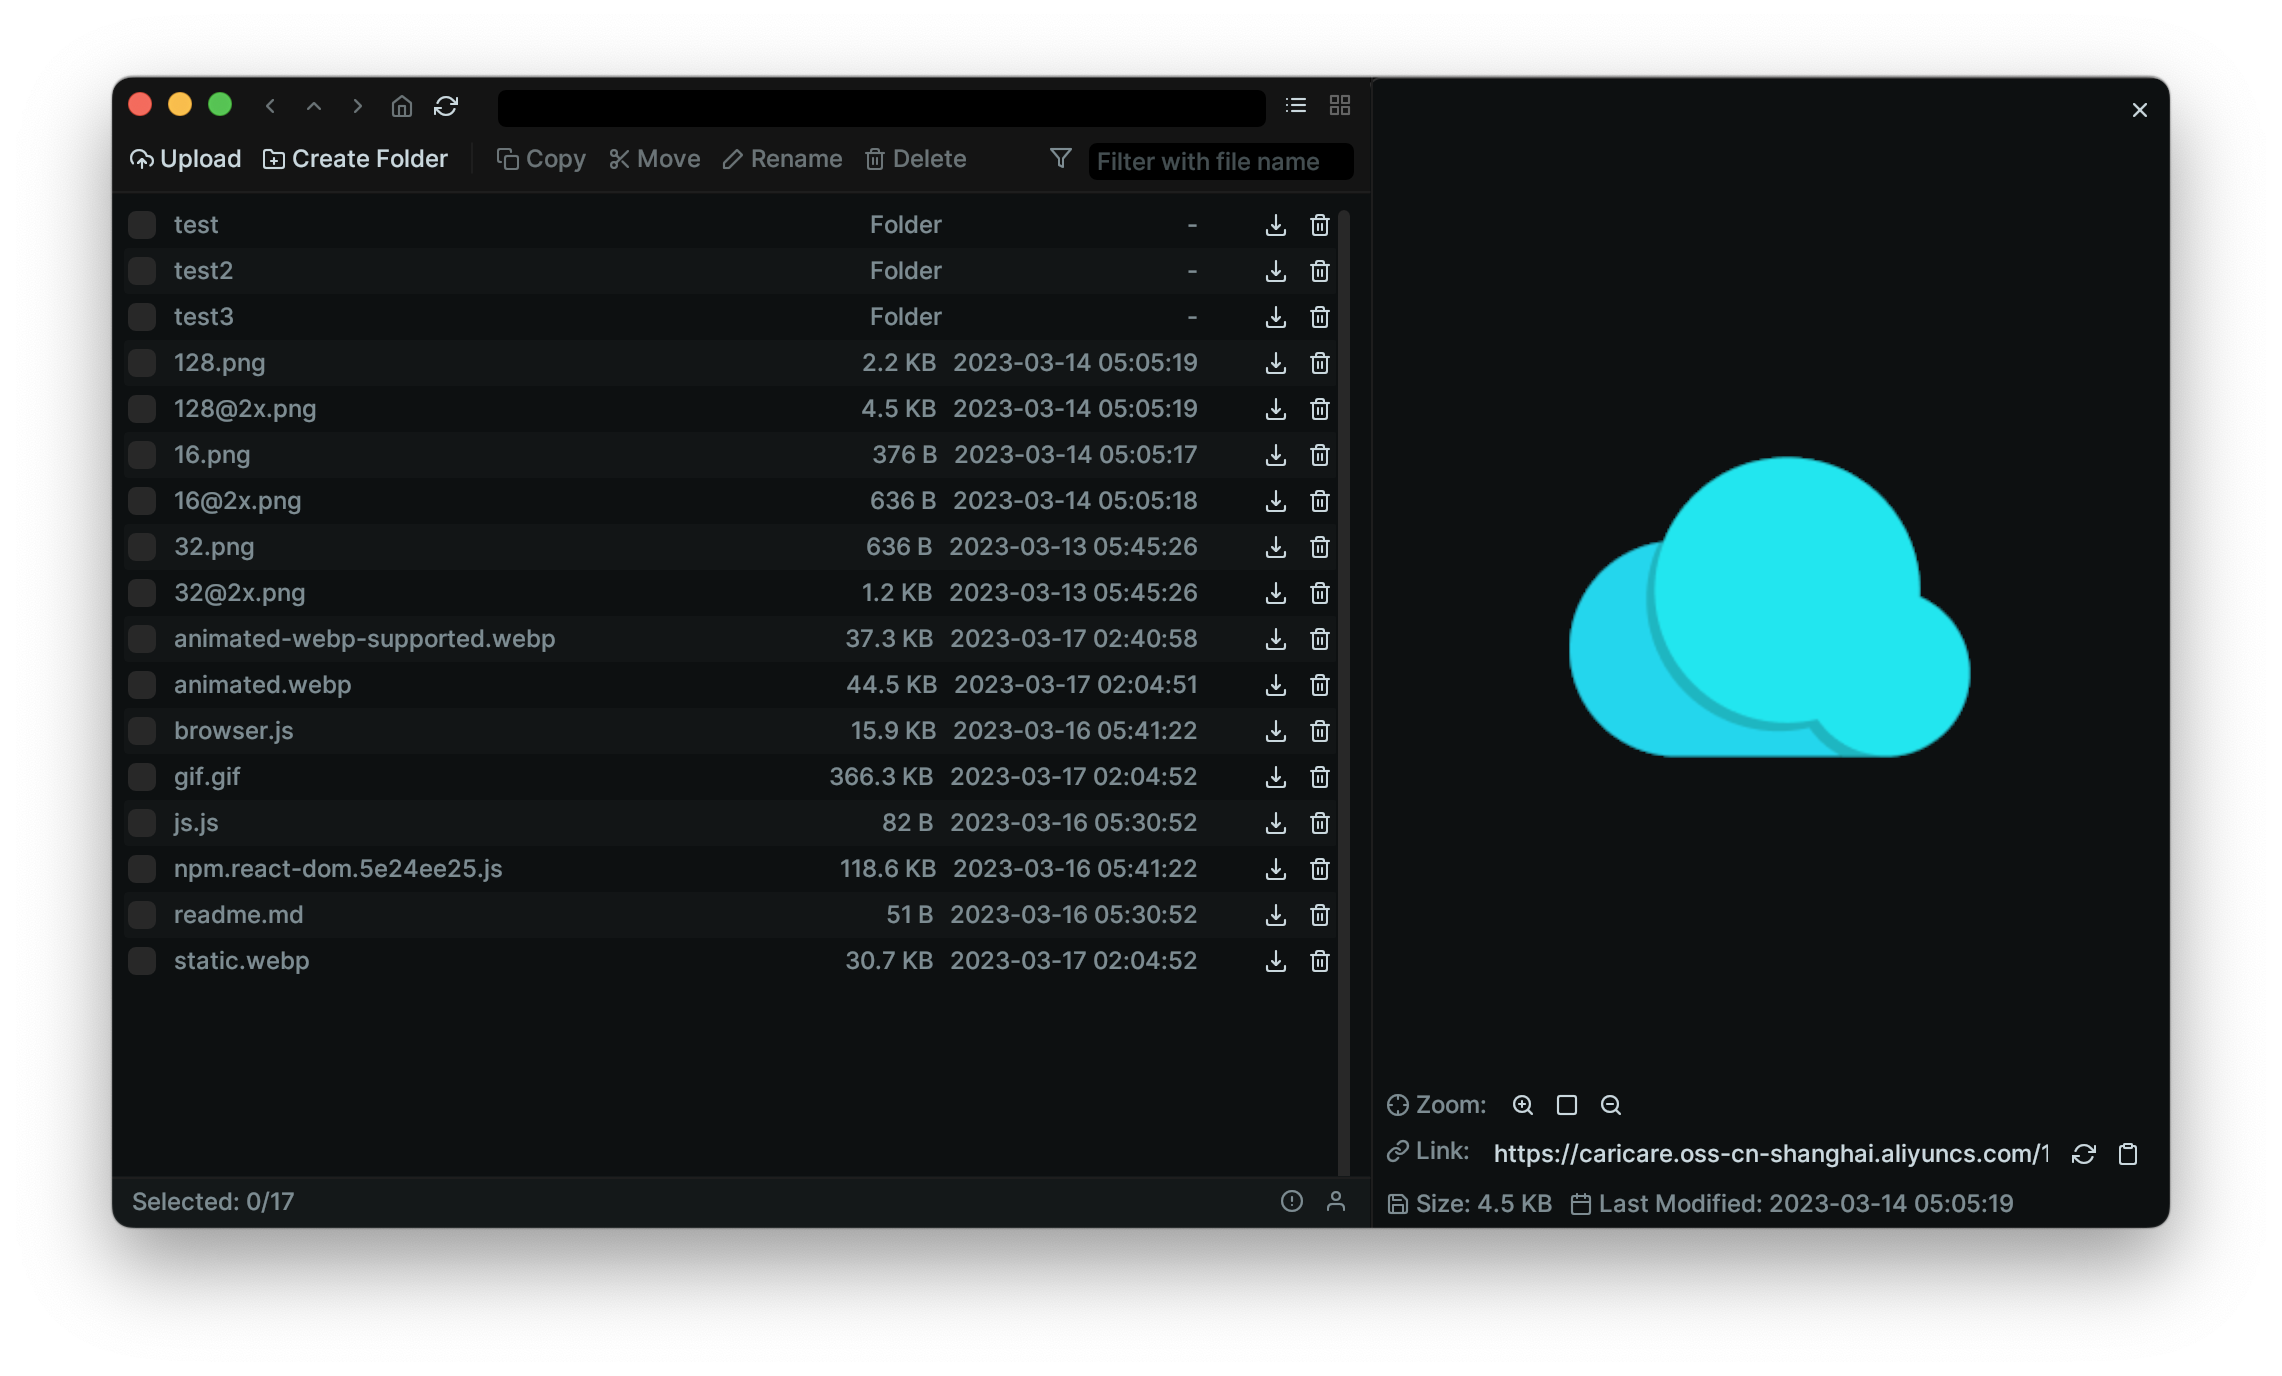
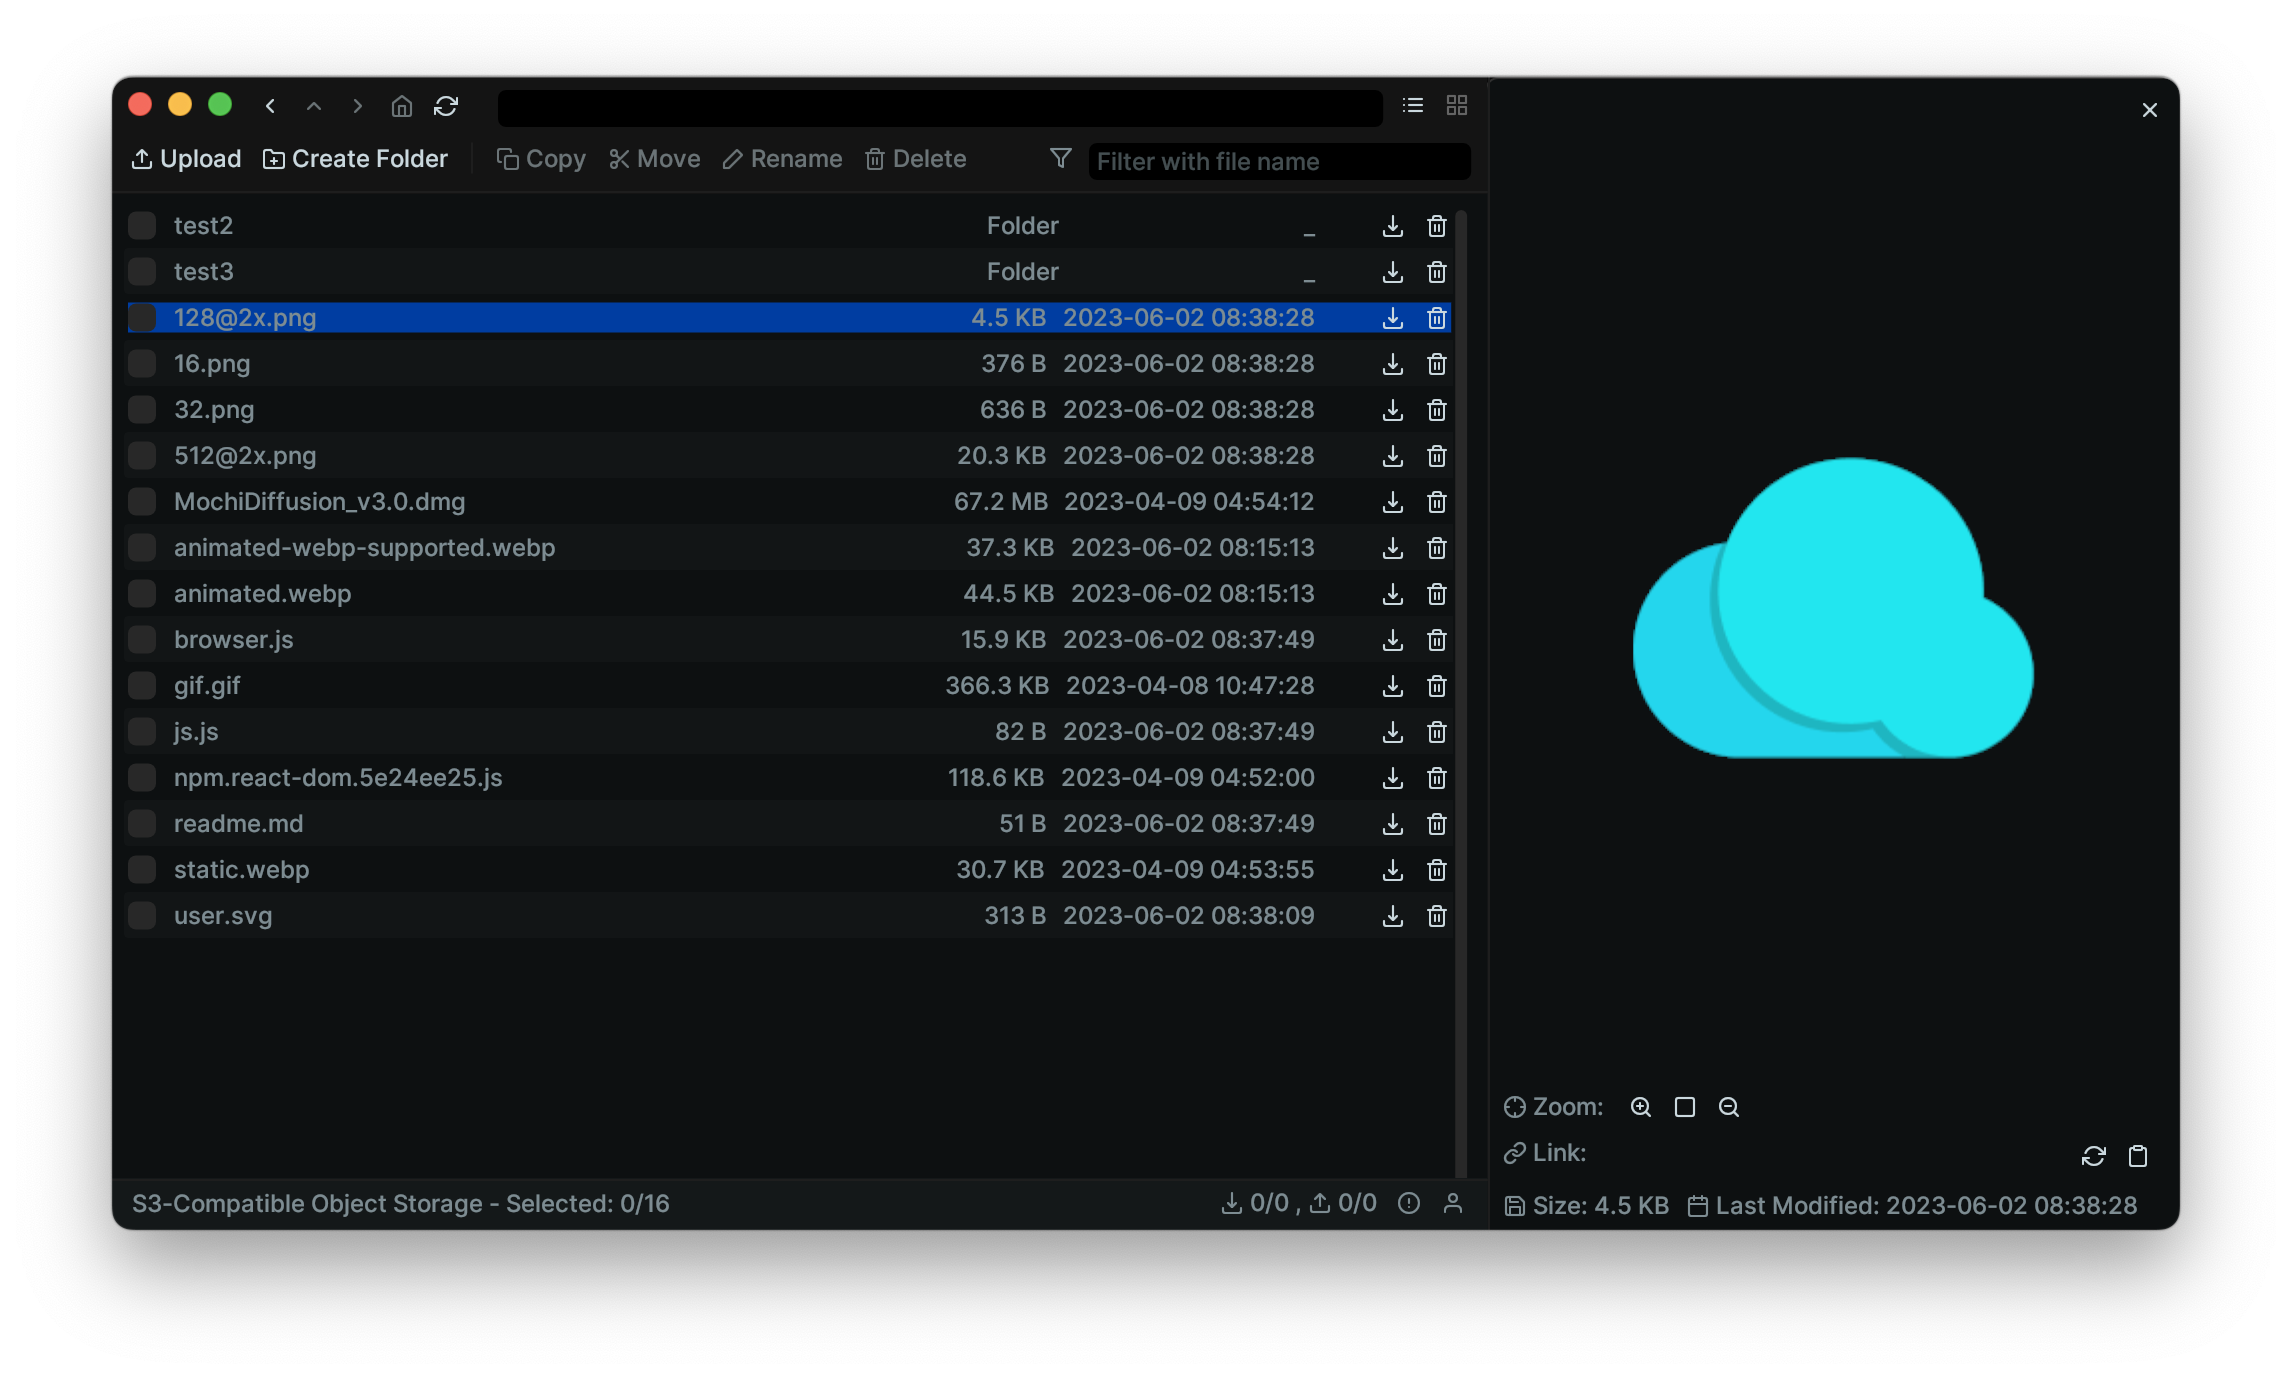
Fix webp crash (#10)
* fix: lossy webp cause crash

* feat: highlight current object

* docs(README): update screenshot

diff --git a/src/widgets/list.rs b/src/widgets/list.rs
@@ -10,7 +10,8 @@ pub fn list_ui(state: &mut State, ui: &mut egui::Ui, row_range: std::ops::Range<
         .striped(true)
         .show(ui, |ui| {
             for data in state.list[row_range].iter_mut() {
-                let response = list_item_ui(ui, data);
+                let is_current = data.key() == state.current_object.key();
+                let response = list_item_ui(ui, data, is_current);
                 if response.on_hover_text(data.name()).clicked() {
                     handle_click(data);
                 }
@@ -37,7 +38,8 @@ pub fn thumb_ui(
                 for j in 0..num_cols {
                     if let Some(data) = state.list.get_mut(j + i * num_cols) {
                         egui::Frame::none().show(ui, |ui| {
-                            let response = thumb_item_ui(ui, data);
+                            let is_current = data.key() == state.current_object.key();
+                            let response = thumb_item_ui(ui, data, is_current);
                             if response.on_hover_text(data.name()).clicked() {
                                 handle_click(data);
                             }

diff --git a/src/widgets/thumb_item.rs b/src/widgets/thumb_item.rs
@@ -4,7 +4,7 @@ use cc_ui::text_ellipsis;
 use cc_ui::THUMB_LIST_HEIGHT;
 use egui::{self, vec2, RichText, Sense, WidgetInfo, WidgetType};
 
-pub fn thumb_item_ui(ui: &mut egui::Ui, data: &mut Object) -> egui::Response {
+pub fn thumb_item_ui(ui: &mut egui::Ui, data: &mut Object, is_current: bool) -> egui::Response {
     let initial_size = vec2(
         ui.available_width(),
         THUMB_LIST_HEIGHT, // Assume there will be
@@ -14,12 +14,12 @@ pub fn thumb_item_ui(ui: &mut egui::Ui, data: &mut Object) -> egui::Response {
 
     if ui.is_rect_visible(rect) {
         let visuals = ui.style().interact(&response);
-        let mut fill_color = if response.hovered() {
+        let mut fill_color = if response.hovered() || data.selected {
             visuals.bg_fill
         } else {
             global().cc_ui.design_tokens.bottom_bar_color
         };
-        if data.selected {
+        if is_current {
             fill_color = global().cc_ui.design_tokens.selection_color;
         }
         ui.allocate_ui_at_rect(rect, |ui| {

diff --git a/src/widgets/list_item.rs b/src/widgets/list_item.rs
@@ -5,7 +5,7 @@ use cc_storage::Object;
 use cc_ui::icon;
 use egui::{self, style::Margin, vec2, Color32, Frame, Sense, WidgetInfo, WidgetType};
 
-pub fn list_item_ui(ui: &mut egui::Ui, data: &mut Object) -> egui::Response {
+pub fn list_item_ui(ui: &mut egui::Ui, data: &mut Object, is_current: bool) -> egui::Response {
     let row_height = ui.text_style_height(&egui::TextStyle::Body);
     let initial_size = vec2(
         ui.available_width(),
@@ -16,12 +16,12 @@ pub fn list_item_ui(ui: &mut egui::Ui, data: &mut Object) -> egui::Response {
 
     if ui.is_rect_visible(rect) {
         let visuals = ui.style().interact(&response);
-        let mut fill_color = if response.hovered() {
+        let mut fill_color = if response.hovered() || data.selected {
             visuals.bg_fill
         } else {
             Color32::TRANSPARENT
         };
-        if data.selected {
+        if is_current {
             fill_color = global().cc_ui.design_tokens.selection_color;
         }
         ui.allocate_ui_at_rect(rect, |ui| {

diff --git a/src/widgets/file_view.rs b/src/widgets/file_view.rs
@@ -64,7 +64,7 @@ pub fn file_view_ui(ctx: &egui::Context, state: &mut State) {
                     .on_hover_text("Close panel")
                     .clicked()
                 {
-                    state.is_preview = false;
+                    state.close_preview();
                 }
             });
             let mut is_image = false;

diff --git a/src/state.rs b/src/state.rs
@@ -620,4 +620,9 @@ impl State {
             });
         }
     }
+
+    pub(crate) fn close_preview(&mut self) {
+        self.is_preview = false;
+        self.current_object = Object::default();
+    }
 }
